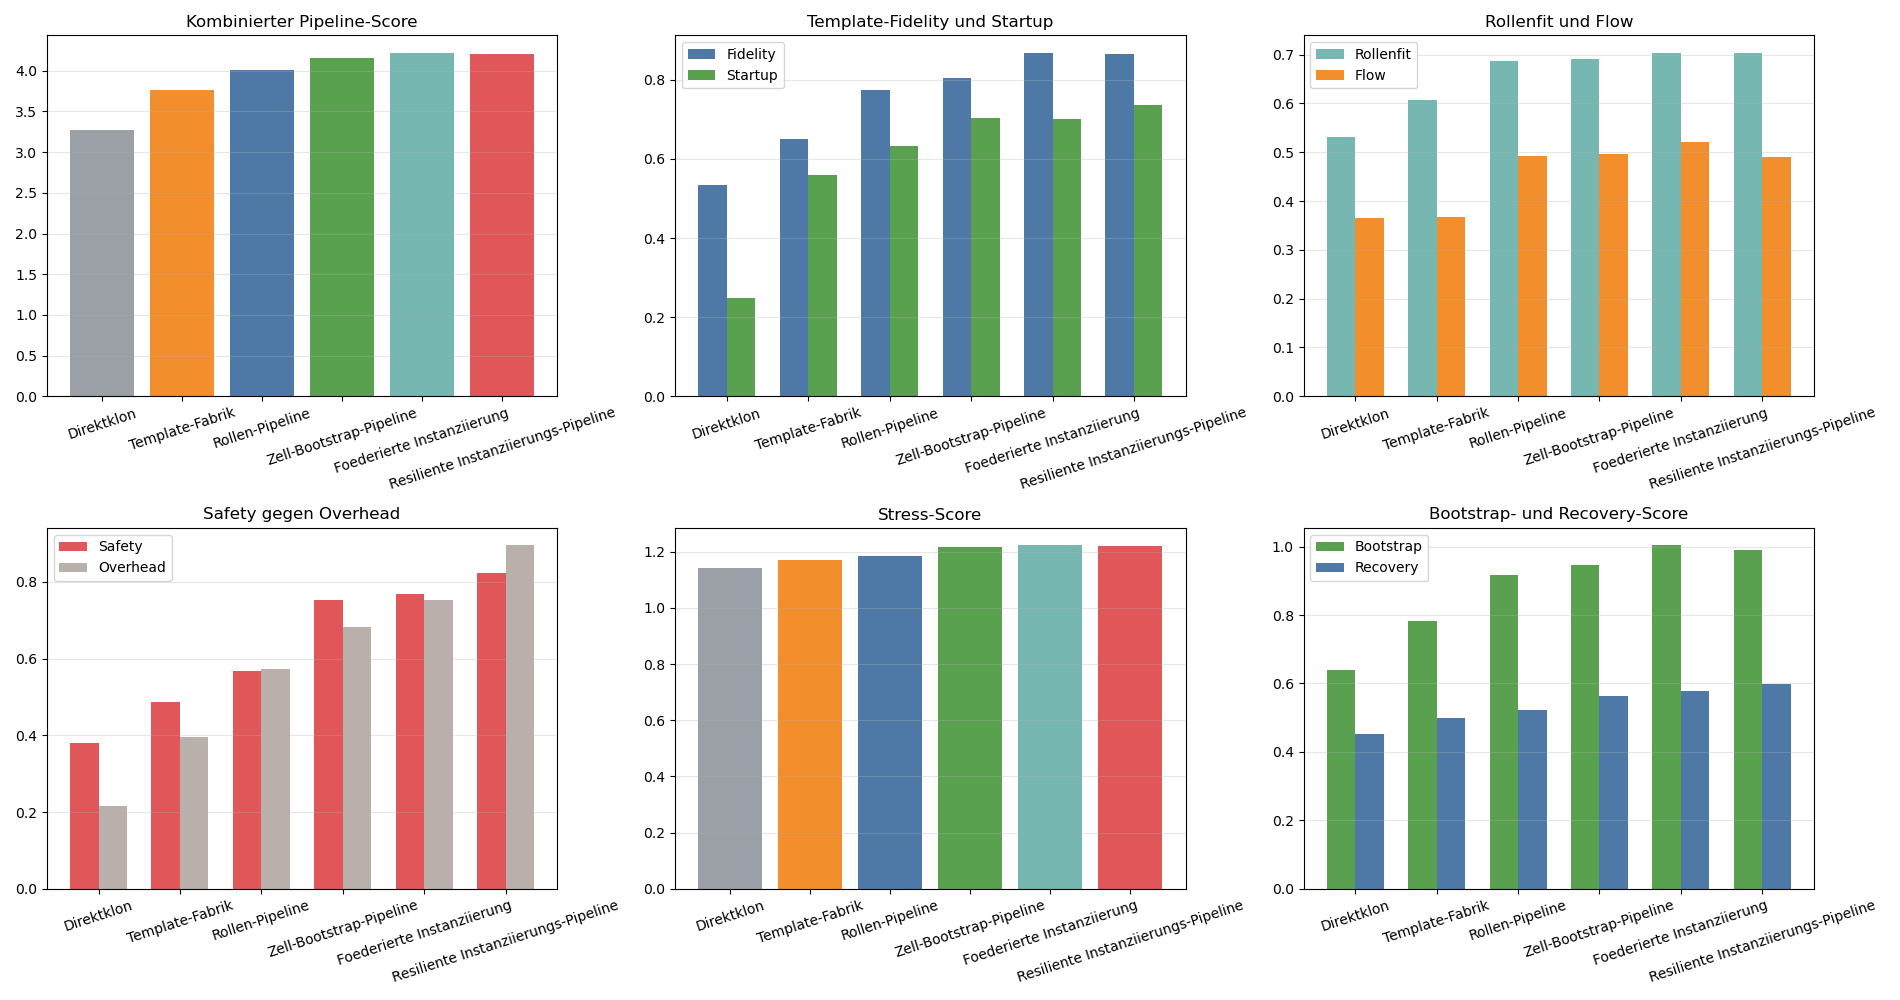
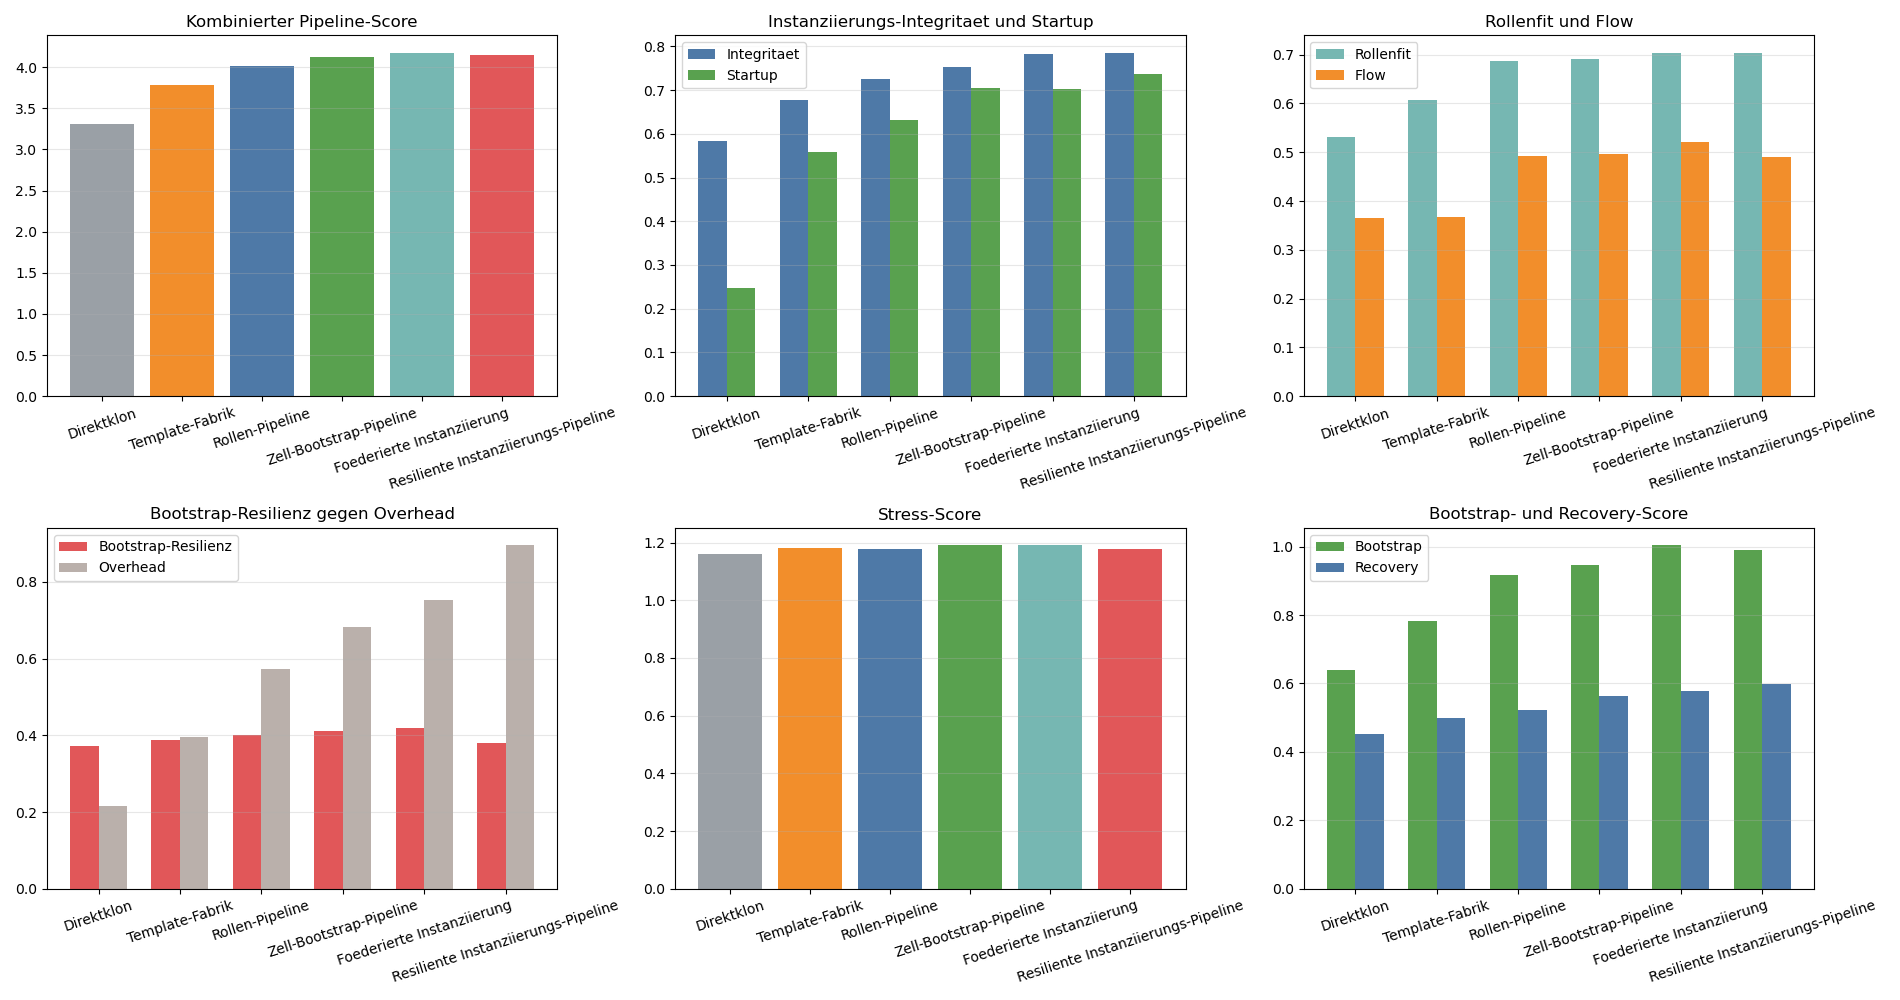
Refine instantiation pipeline resilience metrics

diff --git a/schwarm_instanziierungspipeline.py b/schwarm_instanziierungspipeline.py
@@ -396,6 +396,17 @@ def pipeline_metrics(config, result, params, profile):
             ]
         )
     )
+    instantiation_integrity = clamp01(
+        mittelwert(
+            [
+                template_fidelity,
+                assignment_quality,
+                startup_integrity,
+                1.0 - workflow.get('misinformation_corruption_mean', 0.0),
+                traceability,
+            ]
+        )
+    )
     recovery_margin = clamp01(
         mittelwert(
             [
@@ -404,6 +415,17 @@ def pipeline_metrics(config, result, params, profile):
                 workflow.get('sync_strength_mean', 0.0),
                 1.0 - workflow.get('cluster_compromise_mean', 0.0),
                 profile['bias']['recovery'],
+            ]
+        )
+    )
+    bootstrap_resilience = clamp01(
+        mittelwert(
+            [
+                startup_integrity,
+                recovery_margin,
+                instantiation_flow,
+                workflow.get('sync_strength_mean', 0.0),
+                1.0 - pipeline_overhead,
             ]
         )
     )
@@ -428,6 +450,8 @@ def pipeline_metrics(config, result, params, profile):
         'assignment_quality': assignment_quality,
         'pipeline_safety': pipeline_safety,
         'instantiation_flow': instantiation_flow,
+        'instantiation_integrity': instantiation_integrity,
+        'bootstrap_resilience': bootstrap_resilience,
         'pipeline_overhead': pipeline_overhead,
         'recovery_margin': recovery_margin,
     }
@@ -495,17 +519,16 @@ def context_score(kontext_name, result, agent_count):
     if kontext_name == 'stress':
         return (
             base
-            + 0.18 * metrics['pipeline_safety']
-            + 0.12 * metrics['template_fidelity']
-            + 0.10 * metrics['recovery_margin']
-            - 0.12 * metrics['corruption_mean']
+            + 0.18 * metrics['instantiation_integrity']
+            + 0.12 * metrics['bootstrap_resilience']
+            + 0.10 * metrics['pipeline_safety']
             - 0.10 * metrics['pipeline_overhead']
         )
     return (
         base
-        + 0.20 * metrics['recovery_margin']
-        + 0.12 * metrics['pipeline_safety']
-        + 0.08 * metrics['instantiation_flow']
+        + 0.20 * metrics['bootstrap_resilience']
+        + 0.12 * metrics['instantiation_integrity']
+        + 0.08 * metrics['pipeline_safety']
         - 0.12 * failed_share
         - 0.08 * metrics['pipeline_overhead']
     )
@@ -519,6 +542,8 @@ def summarize_runs(runs, profile, context_list, agent_count):
         'assignment_quality': {},
         'pipeline_safety': {},
         'instantiation_flow': {},
+        'instantiation_integrity': {},
+        'bootstrap_resilience': {},
         'pipeline_overhead': {},
         'recovery_margin': {},
     }
@@ -574,9 +599,9 @@ def main():
         summaries.append(summary)
         print(
             f"{summary['label']:<34} Score={summary['combined_score']:+.3f} | "
-            f"Fidelity={summary['template_fidelity']['bootstrap']:.2f} | "
-            f"Startup={summary['startup_integrity']['startup']:.2f} | "
-            f"Safety={summary['pipeline_safety']['stress']:.2f}"
+            f"Integritaet={summary['instantiation_integrity']['stress']:.2f} | "
+            f"Bootstrap-Resilienz={summary['bootstrap_resilience']['recovery']:.2f} | "
+            f"Startup={summary['startup_integrity']['startup']:.2f}"
         )
 
     best = max(summaries, key=lambda item: item['combined_score'])
@@ -588,9 +613,9 @@ def main():
         f"Delta zum Direktklon {best['combined_score'] - baseline['combined_score']:+.3f}"
     )
     print(
-        f"Fidelity {best['template_fidelity']['bootstrap']:.2f}, "
+        f"Integritaet {best['instantiation_integrity']['stress']:.2f}, "
         f"Startup {best['startup_integrity']['startup']:.2f}, "
-        f"Recovery {best['recovery_margin']['recovery']:.2f}"
+        f"Bootstrap-Resilienz {best['bootstrap_resilience']['recovery']:.2f}"
     )
 
     labels = [item['label'] for item in summaries]
@@ -608,9 +633,9 @@ def main():
 
     axes[0, 1].bar(
         x - width / 2,
-        [item['template_fidelity']['bootstrap'] for item in summaries],
+        [item['instantiation_integrity']['stress'] for item in summaries],
         width,
-        label='Fidelity',
+        label='Integritaet',
         color='#4e79a7',
     )
     axes[0, 1].bar(
@@ -620,7 +645,7 @@ def main():
         label='Startup',
         color='#59a14f',
     )
-    axes[0, 1].set_title('Template-Fidelity und Startup')
+    axes[0, 1].set_title('Instanziierungs-Integritaet und Startup')
     axes[0, 1].set_xticks(x)
     axes[0, 1].set_xticklabels(labels, rotation=18)
     axes[0, 1].legend()
@@ -648,9 +673,9 @@ def main():
 
     axes[1, 0].bar(
         x - width / 2,
-        [item['pipeline_safety']['stress'] for item in summaries],
+        [item['bootstrap_resilience']['recovery'] for item in summaries],
         width,
-        label='Safety',
+        label='Bootstrap-Resilienz',
         color='#e15759',
     )
     axes[1, 0].bar(
@@ -660,7 +685,7 @@ def main():
         label='Overhead',
         color='#bab0ab',
     )
-    axes[1, 0].set_title('Safety gegen Overhead')
+    axes[1, 0].set_title('Bootstrap-Resilienz gegen Overhead')
     axes[1, 0].set_xticks(x)
     axes[1, 0].set_xticklabels(labels, rotation=18)
     axes[1, 0].legend()
